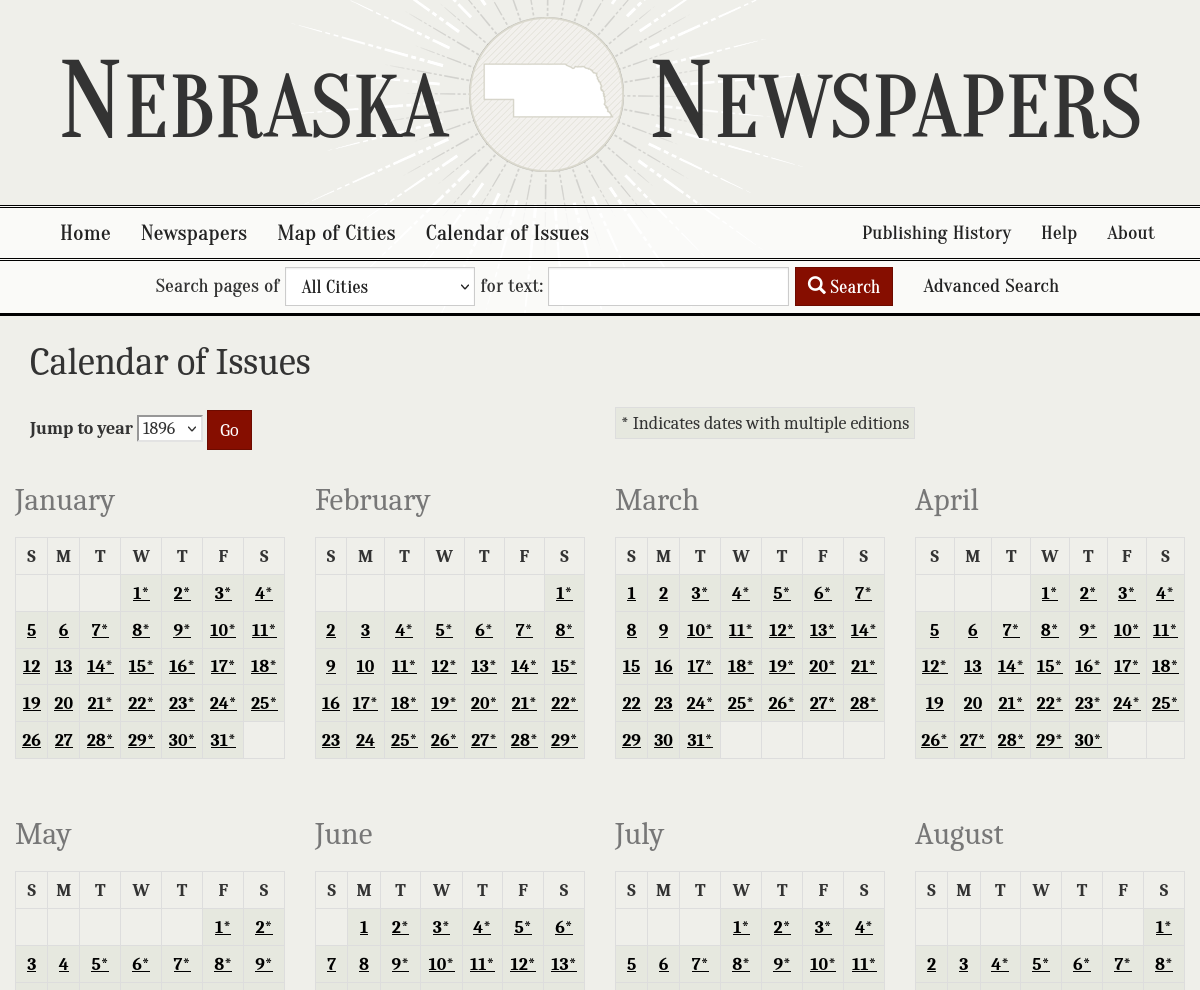
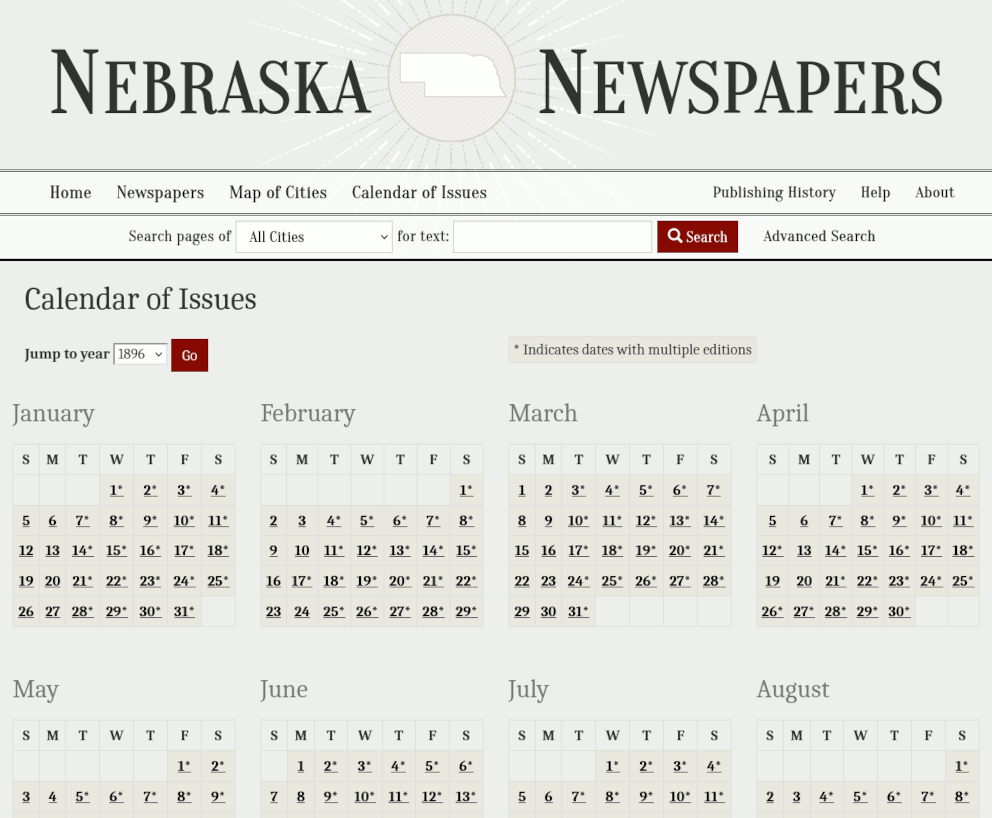
Optimize image size and make responsive

diff --git a/templates/help.html b/templates/help.html
@@ -19,7 +19,7 @@
 
 <p>On the Newspapers page, you'll find a sortable list of all the newspapers currently in the website. You can sort by clicking at the top of any of the columns. </p>
 
-<img src="{% static "images/help_image_001.png" %}" class="help_images"/>
+<img src="{% static "images/help_image_001.png" %}" class="help_images img-responsive"/>
 
 <p>Some newspapers changed names over time, and in this list, you will see them represented as different papers to reflect their Library of Congress records. For example, the University of Nebraska-Lincoln's newspaper was published under various titles, including <em>The Hesperian</em> and <em>The Nebraskan</em>, before it was renamed the <em>Daily Nebraskan</em> in 1901.</p>
 
@@ -27,20 +27,20 @@
 
 <p>The map of cities page allows you to explore newspapers via an interactive map, where you can zoom in or out of the map and get a visual sense of the geographic coverage represented in Nebraska Newspapers. There is also a list of cities and the newspapers available for each one below the map. </p>
 
-<img src="{% static "images/help_image_002.png" %}" class="help_images"/>
+<img src="{% static "images/help_image_002.png" %}" class="help_images img-responsive"/>
 
 <h3 id="date">Calendar of Issues</h3>
 
 <p>The calendar of issues allows you to choose a year to see all the dates for which an issue appears in Nebraska Newspapers. An underlined date has at least one newspaper issue available for that day. Dates with an asterisk indicate that multiple newspaper issues are available for those dates. Selecting a specific day allows you to see a list of the newspapers published on that date, from which you can choose which newspaper you'd like to view.</p>
 
-<img src="{% static "images/help_image_003.png" %}" class="help_images"/>
-<img src="{% static "images/help_image_004.png" %}" class="help_images"/>
+<img src="{% static "images/help_image_003.png" %}" class="help_images img-responsive"/>
+<img src="{% static "images/help_image_004.png" %}" class="help_images img-responsive"/>
 
 <h3 id="search">Search</h3>
 
 <p>You can search on any page using the search form located at the top of the page, and you can limit that search by city. </p>
 
-<img src="{% static "images/help_image_005.png" %}" class="help_images"/>
+<img src="{% static "images/help_image_005.png" %}" class="help_images img-responsive"/>
 
 <p>For more advanced search options, visit the Advanced Search page. There, you will find the following options. If you leave any of the options blank, the search defaults to all of that option. </p>
 
@@ -56,7 +56,7 @@
 
 <p><strong>Search selected newspaper(s):</strong> You can select one or more papers to search here. To select multiple titles, hold down Control (PC) or Command (Mac) while making your selections. </p>
 
-<img src="{% static "images/help_image_006.png" %}" class="help_images"/>
+<img src="{% static "images/help_image_006.png" %}" class="help_images img-responsive"/>
 
 <p><strong>Additional Filters:</strong> To search by language, choose the language from the dropdown. You can also search by frequency of publication or limit your search to results that appear on the front page only.</p>
 
